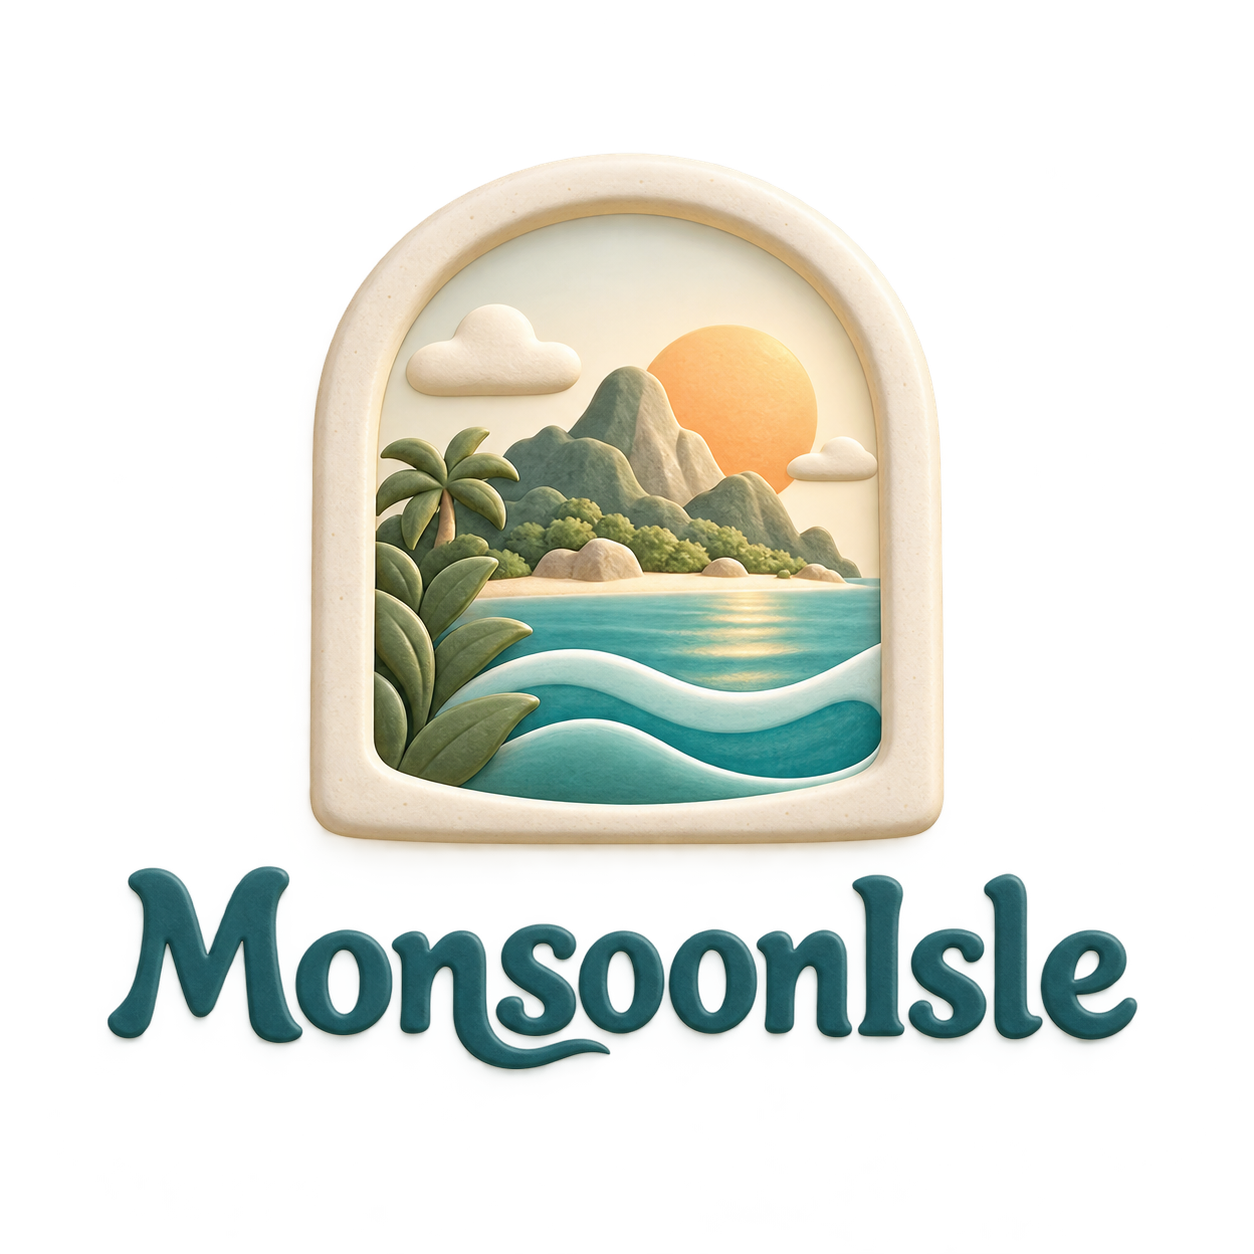
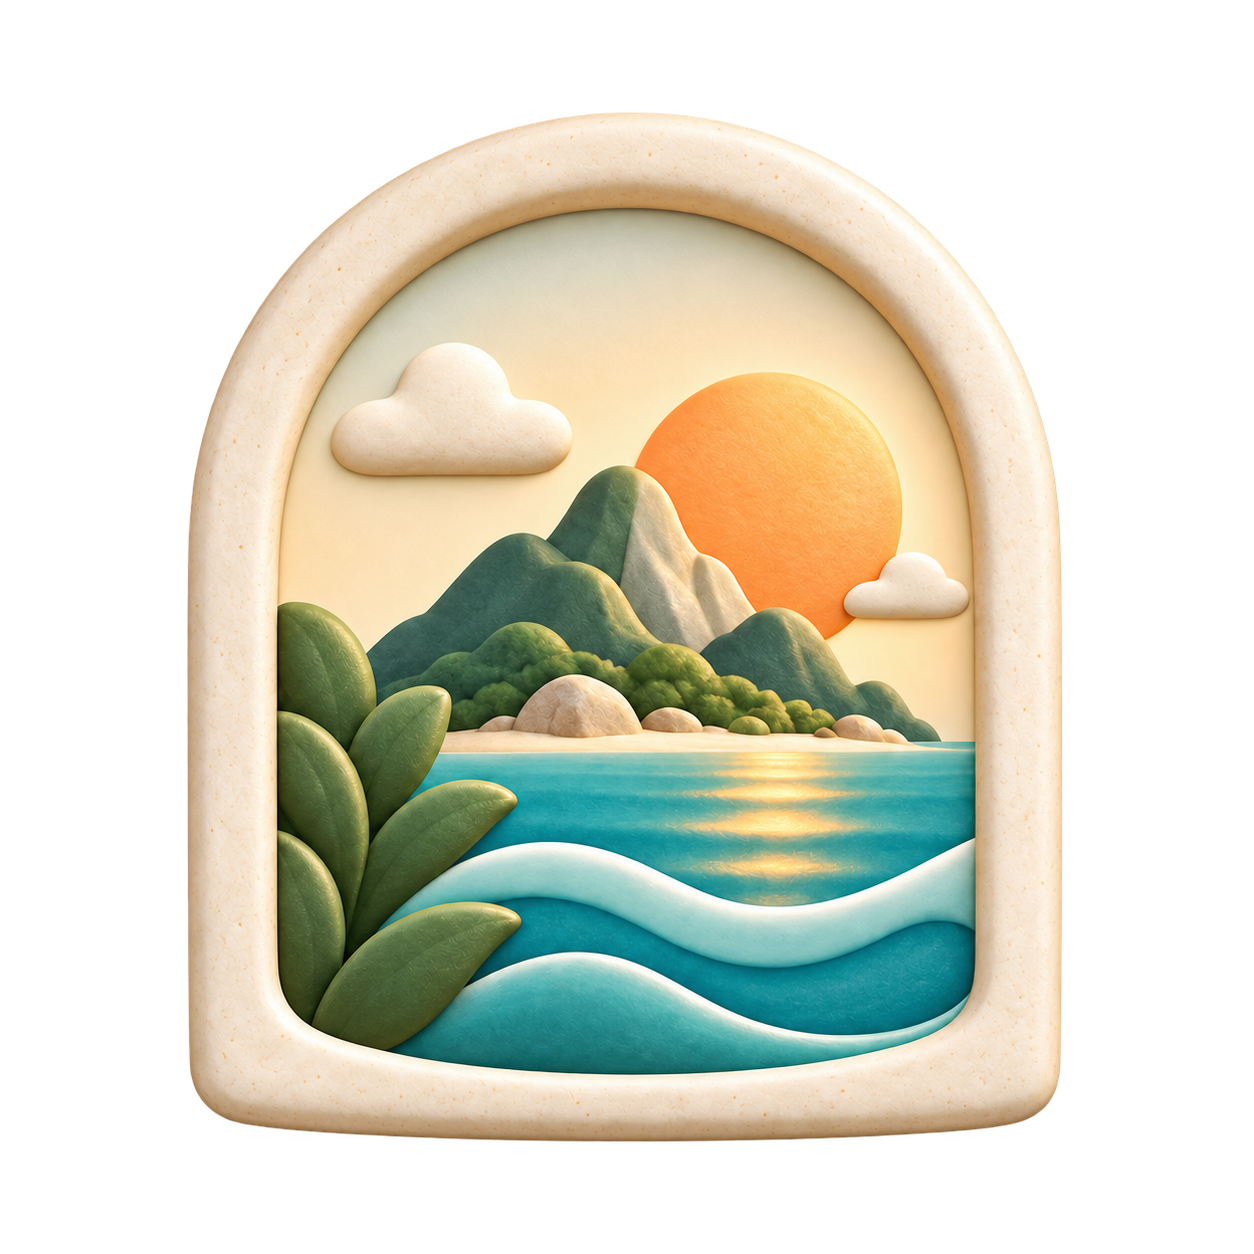
图标替换

diff --git a/en/index.html b/en/index.html
@@ -1,8 +1,8 @@
 <!doctype html>
 <html lang="en">
 <head><meta charset="utf-8"><meta name="viewport" content="width=device-width,initial-scale=1">
-<title>Monsoon Isle — A little island. A world of play.</title><meta name="description" content="Meet Monsoon Isle, discover The Arrow, read our privacy policy and get in touch."><meta name="theme-color" content="#234c44">
-<link rel="icon" href="/assets/monsoon-isle-icon.png" type="image/png"><link rel="apple-touch-icon" href="/assets/monsoon-isle-icon.png"><link rel="stylesheet" href="/assets/style.css">
+<title>Monsoon Isle — A Window to a Gentler Life.</title><meta name="description" content="Meet Monsoon Isle, discover The Arrow, read our privacy policy and get in touch."><meta name="theme-color" content="#234c44">
+<link rel="icon" href="/assets/monsoon-isle-icon.png?v=20260918-2" type="image/png"><link rel="apple-touch-icon" href="/assets/monsoon-isle-icon.png?v=20260918-2"><link rel="stylesheet" href="/assets/style.css">
 <link rel="canonical" href="https://monsoonisle.github.io/en/"></head>
 <body><header><a class="brand" href="/en/" aria-label="Monsoon Isle home"><img src="/assets/monsoon-isle-logo.png" alt="Monsoon Isle" width="2170" height="725"></a>
-<nav aria-label="Main navigation"><a href="/en/#games">Games</a><a href="/en/#about">About</a></nav></header><main><section class="hero"><div><span class="eyebrow">MONSOON ISLE · GAME STUDIO</span><h1>A little island.<br><em>A world of play.</em></h1><p class="lead">We are Monsoon Isle.<br>Simple rules. Games worth spending time with.</p><a class="button" href="#games">Explore our games <span aria-hidden="true">↗</span></a></div><div class="island" aria-hidden="true"><svg viewBox="0 0 460 360" fill="none" xmlns="http://www.w3.org/2000/svg"><circle cx="338" cy="78" r="35" fill="#e6c98b"/><ellipse cx="225" cy="282" rx="170" ry="33" stroke="#bccfbe"/><ellipse cx="225" cy="282" rx="138" ry="22" stroke="#bccfbe"/><path d="M91 257q39-17 57-69 20-63 53-65 33-7 59 54 24 53 109 80-149 57-278 0" fill="#bdcdb3"/><path d="M134 255q26-37 36-71 16-48 34-50 31 20 48 63 17 36 69 60-112 20-187-2" fill="#758f74"/><path d="M95 259q116 19 273-2-132 45-273 2" fill="#e8d8af"/><path d="M230 237q-8-47 8-89" stroke="#526d56" stroke-width="7" stroke-linecap="round"/><path d="M238 149q-24-32-62-10 30 1 62 10M238 149q29-39 64-16-32 0-64 16M238 149q-7-44-36-49 11 24 36 49M238 149q39-14 63 13-29-10-63-13" fill="#3b6554"/><path d="m96 104 12-4 12 4m16-14 10-3 10 3" stroke="#829585" stroke-width="2" stroke-linecap="round"/><path d="M166 308h118M186 323h79" stroke="#bccfbe" stroke-width="2" stroke-linecap="round"/></svg><span class="island-caption">A LITTLE ISLAND. A WORLD OF PLAY.</span></div></section><section class="section" id="games"><div class="section-head"><h2>Our games</h2><span class="small">Small ideas. Thoughtful games.</span></div><article class="game-card"><div class="game-art"><img class="game-cover" src="/assets/the-arrow-cover.png" alt="The Arrow game cover" width="1254" height="1254"></div><div><span class="tag">PUZZLE</span><h3>The Arrow</h3><p>Follow the arrows, clear their paths, and watch the board come free.<br>Find your rhythm in relaxed puzzles and timed challenges.</p><div class="links"><a href="/en/games/the-arrow/privacy/">Privacy Policy ↗</a><a href="#contact">Contact us ↗</a></div></div></article></section><section class="section about" id="about"><div><span class="eyebrow">ABOUT US</span><h2>Make room for a little play.</h2></div><p>Monsoon Isle creates games that are easy to pick up and enjoyable to explore. This is our home for game news, product privacy policies, and ways to reach our team.</p></section><section class="contact" id="contact"><span class="eyebrow">GET IN TOUCH</span><h2>Get in touch</h2><p data-contact>Privacy &amp; game support: <a href="mailto:aquark314@gmail.com">aquark314@gmail.com</a></p></section></main><footer><span>© 2026 Monsoon Isle</span><a href="/en/games/the-arrow/privacy/">The Arrow · Privacy Policy</a><a href="/en/games/the-arrow/privacy/#website">Website privacy</a></footer></body></html>
+<nav aria-label="Main navigation"><a href="/en/#games">Games</a><a href="/en/#about">About</a></nav></header><main><section class="hero"><div><span class="eyebrow">MONSOON ISLE · GAME STUDIO</span><h1>A little island.<br><em>A world of play.</em></h1><p class="lead">We are Monsoon Isle.<br>Simple rules. Games worth spending time with.</p><a class="button" href="#games">Explore our games <span aria-hidden="true">↗</span></a></div><div class="island" aria-hidden="true"><svg viewBox="0 0 460 360" fill="none" xmlns="http://www.w3.org/2000/svg"><circle cx="338" cy="78" r="35" fill="#e6c98b"/><ellipse cx="225" cy="282" rx="170" ry="33" stroke="#bccfbe"/><ellipse cx="225" cy="282" rx="138" ry="22" stroke="#bccfbe"/><path d="M91 257q39-17 57-69 20-63 53-65 33-7 59 54 24 53 109 80-149 57-278 0" fill="#bdcdb3"/><path d="M134 255q26-37 36-71 16-48 34-50 31 20 48 63 17 36 69 60-112 20-187-2" fill="#758f74"/><path d="M95 259q116 19 273-2-132 45-273 2" fill="#e8d8af"/><path d="M230 237q-8-47 8-89" stroke="#526d56" stroke-width="7" stroke-linecap="round"/><path d="M238 149q-24-32-62-10 30 1 62 10M238 149q29-39 64-16-32 0-64 16M238 149q-7-44-36-49 11 24 36 49M238 149q39-14 63 13-29-10-63-13" fill="#3b6554"/><path d="m96 104 12-4 12 4m16-14 10-3 10 3" stroke="#829585" stroke-width="2" stroke-linecap="round"/><path d="M166 308h118M186 323h79" stroke="#bccfbe" stroke-width="2" stroke-linecap="round"/></svg><span class="island-caption">A Window to a Gentler Life.</span></div></section><section class="section" id="games"><div class="section-head"><h2>Our games</h2><span class="small">Small ideas. Thoughtful games.</span></div><article class="game-card"><div class="game-art"><img class="game-cover" src="/assets/the-arrow-cover.png" alt="The Arrow game cover" width="1254" height="1254"></div><div><span class="tag">PUZZLE</span><h3>The Arrow</h3><p>Follow the arrows, clear their paths, and watch the board come free.<br>Find your rhythm in relaxed puzzles and timed challenges.</p><div class="links"><a href="/en/games/the-arrow/privacy/">Privacy Policy ↗</a><a href="#contact">Contact us ↗</a></div></div></article></section><section class="section about" id="about"><div><span class="eyebrow">ABOUT US</span><h2>Make room for a little play.</h2></div><p>Monsoon Isle creates games that are easy to pick up and enjoyable to explore. This is our home for game news, product privacy policies, and ways to reach our team.</p></section><section class="contact" id="contact"><span class="eyebrow">GET IN TOUCH</span><h2>Get in touch</h2><p data-contact>Privacy &amp; game support: <a href="mailto:aquark314@gmail.com">aquark314@gmail.com</a></p></section></main><footer><span>© 2026 Monsoon Isle</span><a href="/en/games/the-arrow/privacy/">The Arrow · Privacy Policy</a><a href="/en/games/the-arrow/privacy/#website">Website privacy</a></footer></body></html>

diff --git a/404.html b/404.html
@@ -2,7 +2,7 @@
 <html lang="en">
 <head><meta charset="utf-8"><meta name="viewport" content="width=device-width,initial-scale=1">
 <title>Page not found | Monsoon Isle</title><meta name="description" content="Page not found."><meta name="theme-color" content="#234c44">
-<link rel="icon" href="/assets/monsoon-isle-icon.png" type="image/png"><link rel="apple-touch-icon" href="/assets/monsoon-isle-icon.png"><link rel="stylesheet" href="/assets/style.css">
+<link rel="icon" href="/assets/monsoon-isle-icon.png?v=20260918-2" type="image/png"><link rel="apple-touch-icon" href="/assets/monsoon-isle-icon.png?v=20260918-2"><link rel="stylesheet" href="/assets/style.css">
 <meta name="robots" content="noindex"></head>
 <body><header><a class="brand" href="/en/" aria-label="Monsoon Isle home"><img src="/assets/monsoon-isle-logo.png" alt="Monsoon Isle" width="2170" height="725"></a>
 <nav aria-label="Main navigation"><a href="/en/#games">Games</a><a href="/en/#about">About</a></nav></header><main><section class="legal-hero"><span class="eyebrow">404</span><h1>This path does not lead to the island.</h1><p>The page may have moved. Explore from our homepage.</p><a class="button" href="/en/">Back to home ↗</a></section></main><footer><span>© 2026 Monsoon Isle</span><a href="/en/games/the-arrow/privacy/">The Arrow · Privacy Policy</a></footer></body></html>

diff --git a/assets/style.css b/assets/style.css
@@ -6,3 +6,6 @@
 .legal-intro{max-width:660px;color:#53665c}.policy{min-width:0;overflow-wrap:break-word}.policy h3{font-size:18px;letter-spacing:0;margin:24px 0 10px;font-weight:600}.policy section+section,.policy-summary+section{margin-top:36px;padding-top:28px;border-top:1px solid #dce1d6}.policy li+li{margin-top:10px}.policy ul{padding-left:24px}.policy-summary{padding:24px 26px;background:#eeeee4;border:1px solid #dce1d6;border-radius:10px}.policy-summary h2{font-size:22px}.policy-summary p:last-child{margin-bottom:0;font-size:13px}.package-name{overflow-wrap:anywhere}@media(min-width:761px){.toc{max-height:calc(100vh - 48px);overflow-y:auto;padding:4px 8px}}@media(max-width:440px){.policy-summary{padding:20px}.policy h2{font-size:21px}}
 
 nav{align-items:center}@media(max-width:440px){nav{gap:10px}}
+
+/* Use the approved square brand icon as the homepage's primary visual. */
+.island svg{display:none}.island::before{content:"";display:block;width:min(100%,370px);aspect-ratio:1;background:url("/assets/monsoon-isle-icon.png?v=20260918-2") center/contain no-repeat}@media(max-width:760px){.island::before{width:min(100%,280px)}}

diff --git a/index.html b/index.html
@@ -1,2 +1,2 @@
 <!doctype html>
-<html lang="en"><head><meta charset="utf-8"><meta name="viewport" content="width=device-width,initial-scale=1"><title>Monsoon Isle</title><meta http-equiv="refresh" content="0;url=/en/"><link rel="icon" href="/assets/monsoon-isle-icon.png" type="image/png"><link rel="apple-touch-icon" href="/assets/monsoon-isle-icon.png"><link rel="canonical" href="https://monsoonisle.github.io/en/"></head><body><p><a href="/en/">Enter Monsoon Isle</a></p></body></html>
+<html lang="en"><head><meta charset="utf-8"><meta name="viewport" content="width=device-width,initial-scale=1"><title>Monsoon Isle</title><meta http-equiv="refresh" content="0;url=/en/"><link rel="icon" href="/assets/monsoon-isle-icon.png?v=20260918-2" type="image/png"><link rel="apple-touch-icon" href="/assets/monsoon-isle-icon.png?v=20260918-2"><link rel="canonical" href="https://monsoonisle.github.io/en/"></head><body><p><a href="/en/">Enter Monsoon Isle</a></p></body></html>

diff --git a/en/games/the-arrow/privacy/index.html b/en/games/the-arrow/privacy/index.html
@@ -6,8 +6,8 @@
   <title>The Arrow — Privacy Policy | Monsoon Isle</title>
   <meta name="description" content="How The Arrow handles local saves, analytics, advertising and support information, including privacy choices and data deletion.">
   <meta name="theme-color" content="#234c44">
-  <link rel="icon" href="/assets/monsoon-isle-icon.png" type="image/png">
-  <link rel="apple-touch-icon" href="/assets/monsoon-isle-icon.png">
+  <link rel="icon" href="/assets/monsoon-isle-icon.png?v=20260918-2" type="image/png">
+  <link rel="apple-touch-icon" href="/assets/monsoon-isle-icon.png?v=20260918-2">
   <link rel="stylesheet" href="/assets/style.css">
   <link rel="canonical" href="https://monsoonisle.github.io/en/games/the-arrow/privacy/">
 </head>
